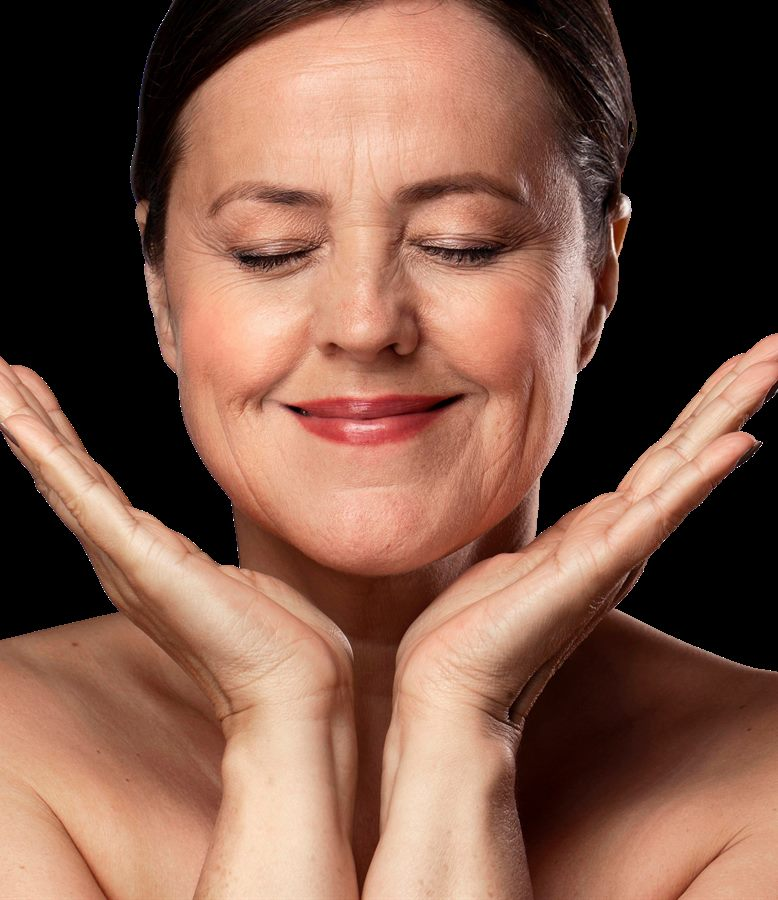
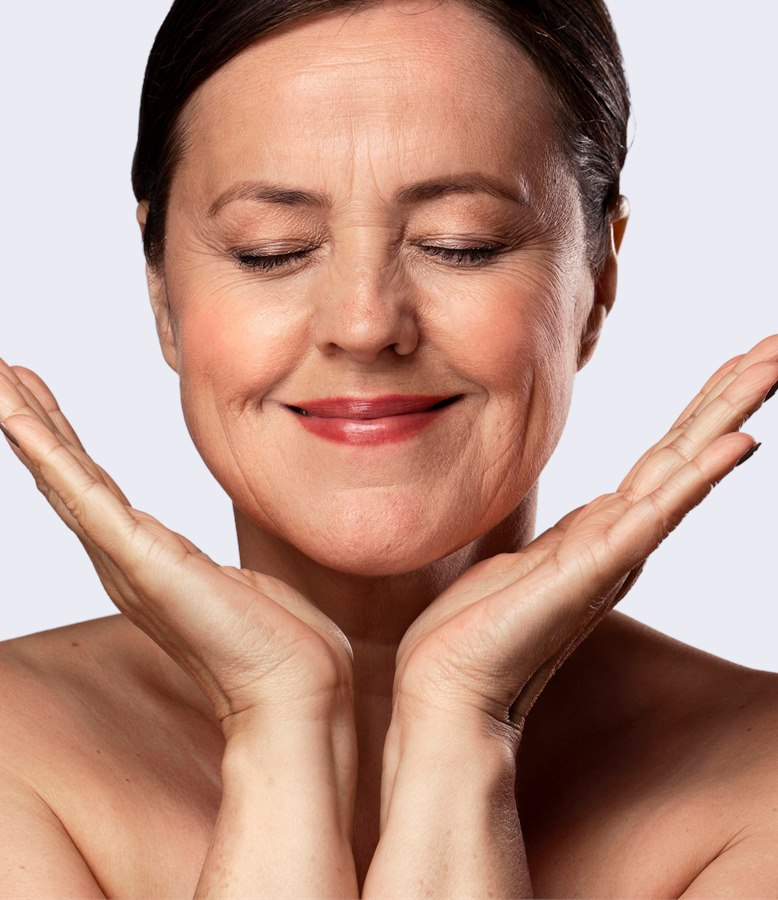
Tres correcoes na LP2 vindas do Figma
1. Cabecalho da FAQ sticky
A coluna de perguntas e tres vezes mais alta que o cabecalho (731 contra
240), entao titulo e CTA sumiam ja na primeira pergunta aberta. Agora
grudam em --sticky-top. Verificado: fixo em 88px durante toda a leitura,
nunca sob o header, e desligado a <=899px, onde as colunas empilham.

Aproveitei para trocar o top:32px da foto do medico pelo mesmo token —
32px passava por baixo do header sticky de 64px, que so existe desde o
commit do menu.

2. Badge de numero do card 3 em "Objetivos clinicos"
O CSS ja estava certo (Figma: pilula e texto #01012C nos cards 1 e 3,
#FFFFFF nos 2/4/5/6, e o markup ja marcava --dark nos dois certos). O
defeito era a imagem: a origem do card 3 e um recorte PNG com alpha
(55.6% dos pixels translucidos) que o Figma compoe sobre o solido
#EBEBF3 do proprio card, e a conversao para JPEG tinha achatado no
preto — navy a 10% sobre preto = badge invisivel.

Refeita a partir do imageRef bruto, aplicando o imageTransform do fill
(crop 2224x2571 em 935,160; aspecto 0.865 contra 0.8644 do card) e
compondo sobre #EBEBF3. Os outros cinco cards nao tem solido atras no
Figma: sao fotos com fundo real e continuam como estavam.

3. Icones em "Entenda o tratamento"
O Figma usa icone no lugar do numero nessa lista; eu tinha implementado
01/02/03. Exportados os tres vetores (7094:1959, :1966, :1983) e
trocados. Os frames de icone la sao 38, 38 e 30 — a coluna fica fixa em
[…]

diff --git a/liftera.html b/liftera.html
@@ -204,23 +204,23 @@
         <p class="split-media__text">O Liftera é um equipamento de ultrassom microfocado registrado na Anvisa. Ele não preenche e não puxa a pele: entrega pontos precisos de energia térmica em camadas profundas do tecido, criando um estímulo controlado que faz o organismo responder produzindo colágeno novo ao longo das semanas seguintes.</p>
 
         <div class="pillars">
-          <ol class="pillars__list">
+          <ol class="pillars__list pillars__list--icones">
             <li class="pillar">
-              <span class="pillar__num" aria-hidden="true">01</span>
+              <img class="pillar__icon" src="assets/icons/icon-liftera-energia.svg" alt="" aria-hidden="true" width="38" height="38">
               <div class="pillar__body">
                 <h3 class="pillar__title">Energia focada, não superficial</h3>
                 <p class="pillar__text pillar__text--14">A energia atravessa a superfície da pele sem lesioná-la e se concentra apenas na profundidade programada. É por isso que o procedimento dispensa cortes e não exige afastamento das atividades.</p>
               </div>
             </li>
             <li class="pillar">
-              <span class="pillar__num" aria-hidden="true">02</span>
+              <img class="pillar__icon" src="assets/icons/icon-liftera-camadas.svg" alt="" aria-hidden="true" width="38" height="38">
               <div class="pillar__body">
                 <h3 class="pillar__title">Camadas que sustentam o rosto</h3>
                 <p class="pillar__text pillar__text--14">O aparelho permite trabalhar em diferentes profundidades, incluindo o plano onde estão as estruturas responsáveis pela sustentação facial, a mesma região que a cirurgia plástica traciona.</p>
               </div>
             </li>
             <li class="pillar pillar--last">
-              <span class="pillar__num" aria-hidden="true">03</span>
+              <img class="pillar__icon" src="assets/icons/icon-liftera-colageno.svg" alt="" aria-hidden="true" width="30" height="30">
               <div class="pillar__body">
                 <h3 class="pillar__title">Resultado construído pelo seu corpo</h3>
                 <p class="pillar__text pillar__text--14">O que muda o aspecto da pele não é o aparelho: é o colágeno que o seu organismo produz em resposta ao estímulo. Por isso os efeitos são progressivos e aparecem ao longo de semanas, não no dia seguinte.</p>

diff --git a/assets/css/style.css b/assets/css/style.css
@@ -16,6 +16,7 @@
   --section-px: clamp(24px, 7.78vw, 112px);     /* padding 112 / 1440 = 7.78vw */
   --content-gap: 80px;                          /* itemSpacing padrão das seções */
   --section-py: 80px;                           /* padding vertical padrão */
+  --sticky-top: 88px;                           /* header encolhido (64) + folga */
 
   /* Respiro lateral efetivo. Abaixo de 1440 vale o --section-px fluido;
      acima, cresce para manter o conteúdo travado em 1216 e centralizado.
@@ -808,6 +809,18 @@ html { scroll-behavior: smooth; }
   color: var(--c-primary);
 }
 
+/* Variante da LP2 ("O que é o Liftera"): o Figma usa ícone no lugar do
+   número. Os frames de ícone lá são 38, 38 e 30 — a coluna fica fixa em 38
+   para as três linhas alinharem, e o `object-fit: none` preserva o tamanho
+   natural de cada SVG dentro dela. */
+.pillar__icon {
+  flex: 0 0 38px;
+  align-self: flex-start;
+  width: 38px;
+  height: 38px;
+  object-fit: none;
+}
+
 /* Text_Stack — FILL grow 1, VERTICAL gap 8 */
 .pillar__body {
   flex: 1 1 0;
@@ -1140,7 +1153,7 @@ html { scroll-behavior: smooth; }
    dentro do flex. */
 .about__media {
   position: sticky;
-  top: 32px;
+  top: var(--sticky-top);
   align-self: flex-start;
   flex: 0 0 580px;
   width: 580px;
@@ -1659,8 +1672,14 @@ html { scroll-behavior: smooth; }
   gap: 56px;
 }
 
-/* SectionHeader — 580 FILL grow 1, VERTICAL gap 24, pad-bottom 80 */
+/* SectionHeader — 580 FILL grow 1, VERTICAL gap 24, pad-bottom 80.
+   Sticky pelo mesmo motivo da foto do médico: a coluna de perguntas é muito
+   mais alta que o cabeçalho, então o título e o CTA acompanham a leitura em
+   vez de sumirem no topo já na primeira pergunta aberta. */
 .faq__aside {
+  position: sticky;
+  top: var(--sticky-top);
+  align-self: flex-start;
   flex: 1 1 0;
   min-width: 0;
   display: flex;
@@ -2665,7 +2684,14 @@ body.lightbox-aberto { overflow: hidden; }
 
   .about__left { flex: none; }
 
-  .faq__aside { padding-bottom: 0; }
+  /* Empilhado, o cabeçalho vira a primeira coisa da seção — sticky aqui só
+     faria ele pairar sobre as perguntas. */
+  .faq__aside {
+    position: static;
+    top: auto;
+    flex: none;
+    padding-bottom: 0;
+  }
 
   .hero__media { flex: none; }
 

diff --git a/theme/dr-romulo/assets/css/style.css b/theme/dr-romulo/assets/css/style.css
@@ -16,6 +16,7 @@
   --section-px: clamp(24px, 7.78vw, 112px);     /* padding 112 / 1440 = 7.78vw */
   --content-gap: 80px;                          /* itemSpacing padrão das seções */
   --section-py: 80px;                           /* padding vertical padrão */
+  --sticky-top: 88px;                           /* header encolhido (64) + folga */
 
   /* Respiro lateral efetivo. Abaixo de 1440 vale o --section-px fluido;
      acima, cresce para manter o conteúdo travado em 1216 e centralizado.
@@ -808,6 +809,18 @@ html { scroll-behavior: smooth; }
   color: var(--c-primary);
 }
 
+/* Variante da LP2 ("O que é o Liftera"): o Figma usa ícone no lugar do
+   número. Os frames de ícone lá são 38, 38 e 30 — a coluna fica fixa em 38
+   para as três linhas alinharem, e o `object-fit: none` preserva o tamanho
+   natural de cada SVG dentro dela. */
+.pillar__icon {
+  flex: 0 0 38px;
+  align-self: flex-start;
+  width: 38px;
+  height: 38px;
+  object-fit: none;
+}
+
 /* Text_Stack — FILL grow 1, VERTICAL gap 8 */
 .pillar__body {
   flex: 1 1 0;
@@ -1140,7 +1153,7 @@ html { scroll-behavior: smooth; }
    dentro do flex. */
 .about__media {
   position: sticky;
-  top: 32px;
+  top: var(--sticky-top);
   align-self: flex-start;
   flex: 0 0 580px;
   width: 580px;
@@ -1659,8 +1672,14 @@ html { scroll-behavior: smooth; }
   gap: 56px;
 }
 
-/* SectionHeader — 580 FILL grow 1, VERTICAL gap 24, pad-bottom 80 */
+/* SectionHeader — 580 FILL grow 1, VERTICAL gap 24, pad-bottom 80.
+   Sticky pelo mesmo motivo da foto do médico: a coluna de perguntas é muito
+   mais alta que o cabeçalho, então o título e o CTA acompanham a leitura em
+   vez de sumirem no topo já na primeira pergunta aberta. */
 .faq__aside {
+  position: sticky;
+  top: var(--sticky-top);
+  align-self: flex-start;
   flex: 1 1 0;
   min-width: 0;
   display: flex;
@@ -2665,7 +2684,14 @@ body.lightbox-aberto { overflow: hidden; }
 
   .about__left { flex: none; }
 
-  .faq__aside { padding-bottom: 0; }
+  /* Empilhado, o cabeçalho vira a primeira coisa da seção — sticky aqui só
+     faria ele pairar sobre as perguntas. */
+  .faq__aside {
+    position: static;
+    top: auto;
+    flex: none;
+    padding-bottom: 0;
+  }
 
   .hero__media { flex: none; }
 

diff --git a/theme/dr-romulo/inc/secoes.php b/theme/dr-romulo/inc/secoes.php
@@ -196,11 +196,22 @@ function drm_lista_numerada( $itens, $texto_pequeno = false ) {
 		return;
 	}
 	$ultimo = count( $itens ) - 1;
-	echo '<ol class="pillars__list">';
+
+	// O Figma troca o número por um ícone quando o item tem um definido — é o
+	// caso do mecanismo do Liftera. A lista inteira segue o primeiro item.
+	$com_icone = (bool) get_post_meta( $itens[0]->ID, 'drm_icone', true );
+
+	printf( '<ol class="pillars__list%s">', $com_icone ? ' pillars__list--icones' : '' );
 	foreach ( $itens as $i => $post ) {
+		$icone = get_post_meta( $post->ID, 'drm_icone', true );
 		?>
 		<li class="pillar <?php echo $i === $ultimo ? 'pillar--last' : ''; ?>">
-			<span class="pillar__num" aria-hidden="true"><?php echo esc_html( drm_num( $i ) ); ?></span>
+			<?php if ( $icone ) : ?>
+				<img class="pillar__icon" src="<?php echo esc_url( drm_icone( $icone ) ); ?>"
+				     alt="" aria-hidden="true" width="38" height="38">
+			<?php else : ?>
+				<span class="pillar__num" aria-hidden="true"><?php echo esc_html( drm_num( $i ) ); ?></span>
+			<?php endif; ?>
 			<div class="pillar__body">
 				<h3 class="pillar__title"><?php echo esc_html( $post->post_title ); ?></h3>
 				<p class="pillar__text <?php echo $texto_pequeno ? 'pillar__text--14' : ''; ?>"><?php echo esc_html( drm_texto( $post ) ); ?></p>

diff --git a/theme/dr-romulo/inc/dados-seed.php b/theme/dr-romulo/inc/dados-seed.php
@@ -160,14 +160,17 @@ return array(
 			'liftera' => array(
 				array(
 					'titulo' => 'Energia focada, não superficial',
+					'icone' => 'icon-liftera-energia.svg',
 					'texto' => 'A energia atravessa a superfície da pele sem lesioná-la e se concentra apenas na profundidade programada. É por isso que o procedimento dispensa cortes e não exige afastamento das atividades.',
 				),
 				array(
 					'titulo' => 'Camadas que sustentam o rosto',
+					'icone' => 'icon-liftera-camadas.svg',
 					'texto' => 'O aparelho permite trabalhar em diferentes profundidades, incluindo o plano onde estão as estruturas responsáveis pela sustentação facial, a mesma região que a cirurgia plástica traciona.',
 				),
 				array(
 					'titulo' => 'Resultado construído pelo seu corpo',
+					'icone' => 'icon-liftera-colageno.svg',
 					'texto' => 'O que muda o aspecto da pele não é o aparelho: é o colágeno que o seu organismo produz em resposta ao estímulo. Por isso os efeitos são progressivos e aparecem ao longo de semanas, não no dia seguinte.',
 				),
 			),
